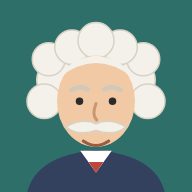
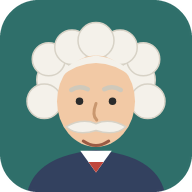
v0.38: icona con angoli arrotondati
Claude-Session: https://claude.ai/code/session_01Ssf3b3nUtF3mox4JfcT8JP

diff --git a/sw.js b/sw.js
@@ -1,5 +1,5 @@
 /* AI.st.ain — service worker: apre l'app anche senza rete. Mai le chiamate AI. */
-const V = 'scio-0.37';
+const V = 'scio-0.38';
 const FILE = ['./', 'index.html', 'style.css', 'app.js', 'i18n.js', 'manifest.webmanifest', 'icons/favicon.svg', 'icons/icon-192.png', 'icons/icon-512.png',
   'fonts/lexend-latin-400-normal.woff2', 'fonts/lexend-latin-500-normal.woff2', 'fonts/lexend-latin-600-normal.woff2', 'fonts/lexend-latin-700-normal.woff2',
   'fonts/lexend-latin-ext-400-normal.woff2', 'fonts/lexend-latin-ext-500-normal.woff2', 'fonts/lexend-latin-ext-600-normal.woff2', 'fonts/lexend-latin-ext-700-normal.woff2',

diff --git a/app.js b/app.js
@@ -2,7 +2,7 @@
 /* ===== AI.st.ain v0.8.1 — app web installabile (PWA) ===== */
 /* Anti-clickjacking: AI.st.ain non si lascia incorniciare in altre pagine. */
 if (window.top !== window.self) { document.documentElement.textContent = ''; throw new Error('AI.st.ain non può essere aperto dentro un\'altra pagina.'); }
-const VERSIONE = '0.37';
+const VERSIONE = '0.38';
 const SEZ = ['riassunto', 'schema', 'mappa', 'spiegazioni', 'glossario', 'costruisci', 'pratica', 'orale'];
 const LIVELLI = ['elementari', 'media', 'superiori', 'universita'];
 const LS = 'scio.v0.3';

diff --git a/README.md b/README.md
@@ -1,4 +1,4 @@
-# AI.st.ain v0.37 — app di studio installabile (PWA)
+# AI.st.ain v0.38 — app di studio installabile (PWA)
 
 **AI.st.ain** = *Aiuto Intelligente per lo STudio, l'Autonomia e l'INclusione* (un omaggio, nel nome, ad Albert Einstein).
 Prima si chiamava Scio: il repository e l'indirizzo restano gli stessi e i dati già salvati si ritrovano.
@@ -10,6 +10,9 @@ Nessun server, nessun account, nessun tracciamento: **i dati restano sul disposi
 Indirizzo dell'app: https://toskurim.github.io/Scio/ (attenzione: la S di AI.st.ain è maiuscola).
 
 - Pagina di presentazione pubblica: `presentazione.html` (https://toskurim.github.io/Scio/presentazione.html), da mandare a chi vuole conoscere l'app.
+
+## Novità della v0.38
+- Icona dell'app (barra delle applicazioni, schermata iniziale) con gli angoli arrotondati.
 
 ## Novità della v0.37
 - Se il genitore nasconde il «Riassunto», la scheda «Il mio riassunto» diventa la prima del capitolo.
